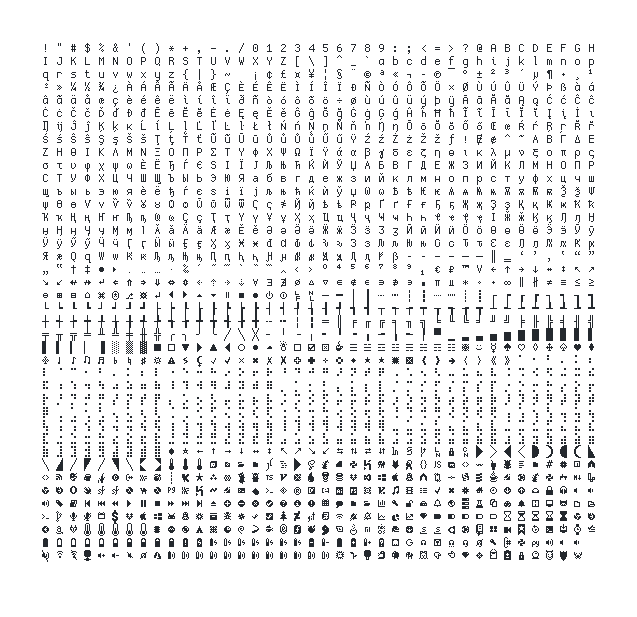
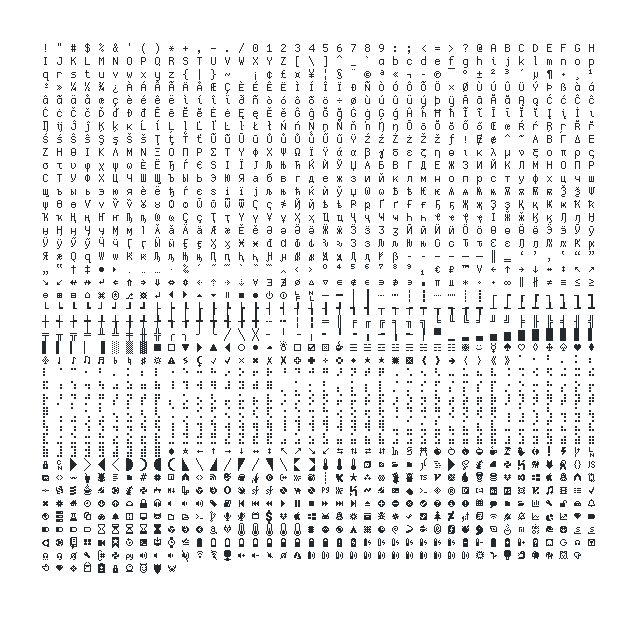
Add pomicons

Changed region(s): [[0.0597, 0.0616, 0.9545, 0.9238], [0.9246, 0.0924, 0.9545, 0.1232]]

diff --git a/CHANGELOG.md b/CHANGELOG.md
@@ -9,6 +9,11 @@ The format is based on [Keep a Changelog], and this project adheres to
 
 Nothing!
 
+## [1.8.0]
+### Added
+#### Glyphs
+- [Pomicons](https://github.com/gabrielelana/pomicons)
+
 ## [1.7.2]
 ### Changed
 - Bumped version number, since I accidentally released 1.7.0 again as 1.7.1.
@@ -461,7 +466,8 @@ Still broken on Windows.
 
 [Keep a Changelog]: https://keepachangelog.com/en/1.0.0/
 [Semantic Versioning]: https://semver.org/spec/v2.0.0.html
-[unreleased]: https://github.com/slavfox/Cozette/compare/v.1.7.2...HEAD
+[unreleased]: https://github.com/slavfox/Cozette/compare/v.1.8.0...HEAD
+[1.8.0]: https://github.com/slavfox/Cozette/compare/v.1.7.2...v.1.8.0
 [1.7.2]: https://github.com/slavfox/Cozette/compare/v.1.7.1...v.1.7.2
 [1.7.1]: https://github.com/slavfox/Cozette/compare/v.1.7.0...v.1.7.1
 [1.7.0]: https://github.com/slavfox/Cozette/compare/v.1.6.3...v.1.7.0

diff --git a/README.md b/README.md
@@ -102,6 +102,7 @@ implemented:
 - [x] Braille
 - [x] Cyrillic!
 - [ ] Nerdfonts:
+  - [x] nf-pom-*
   - [x] nf-seti-*
   - [ ] nf-dev-* (partial)
   - [ ] nf-weather-*
